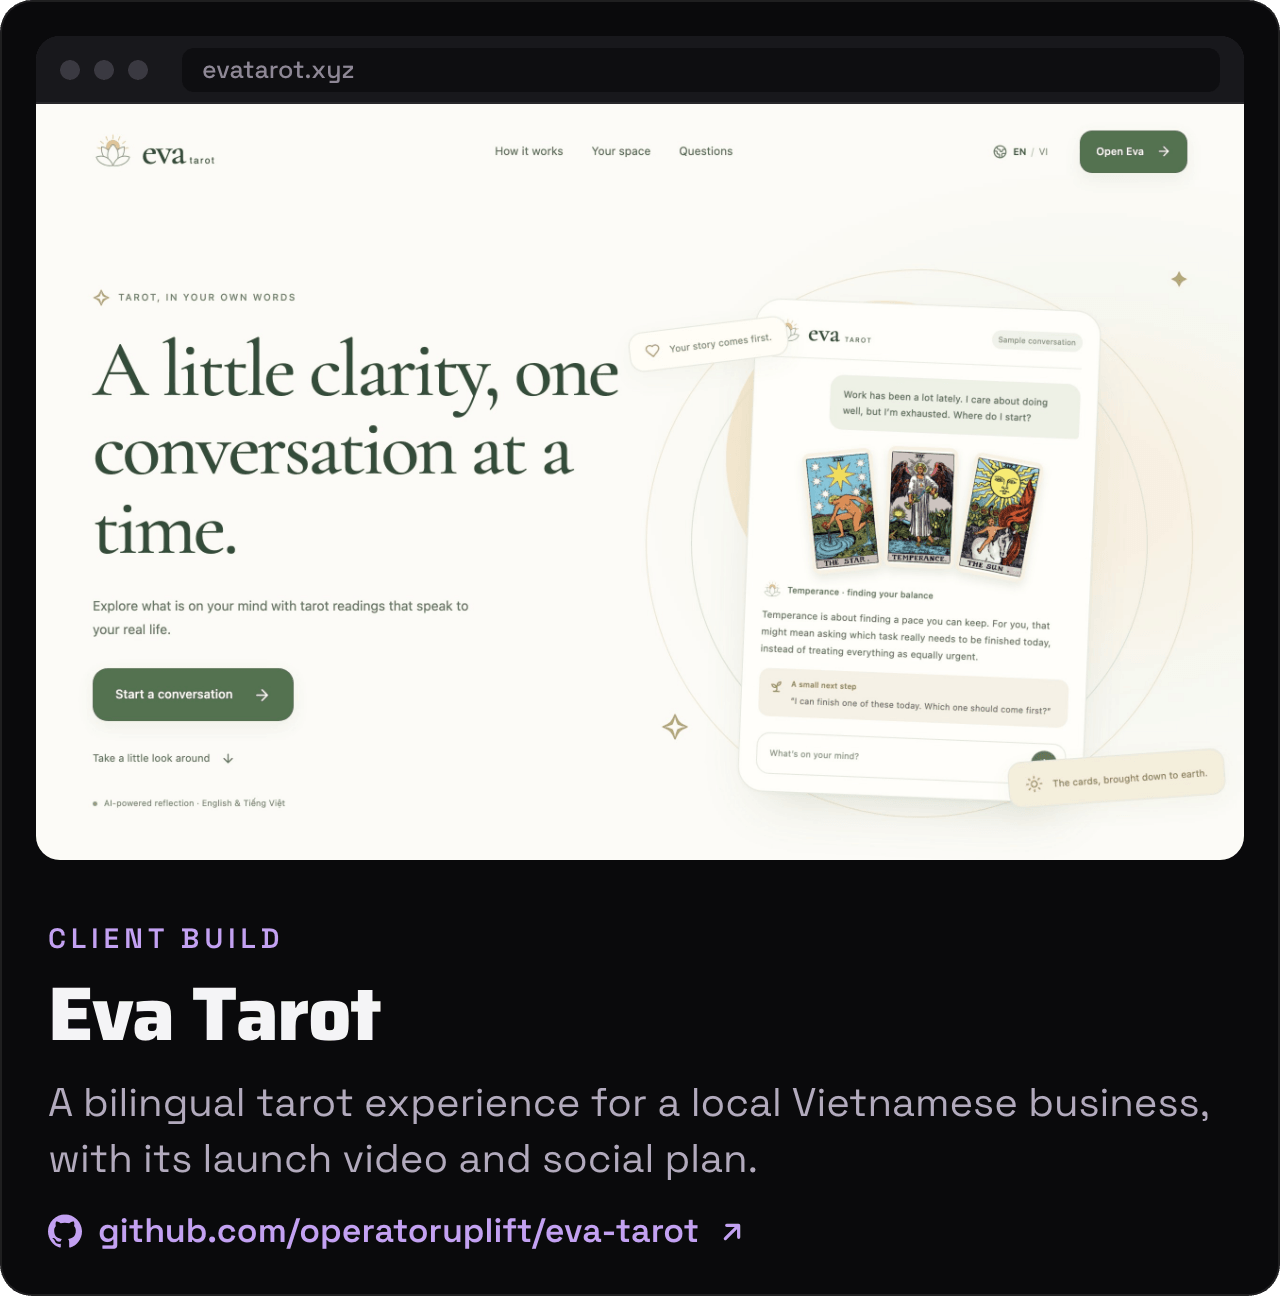
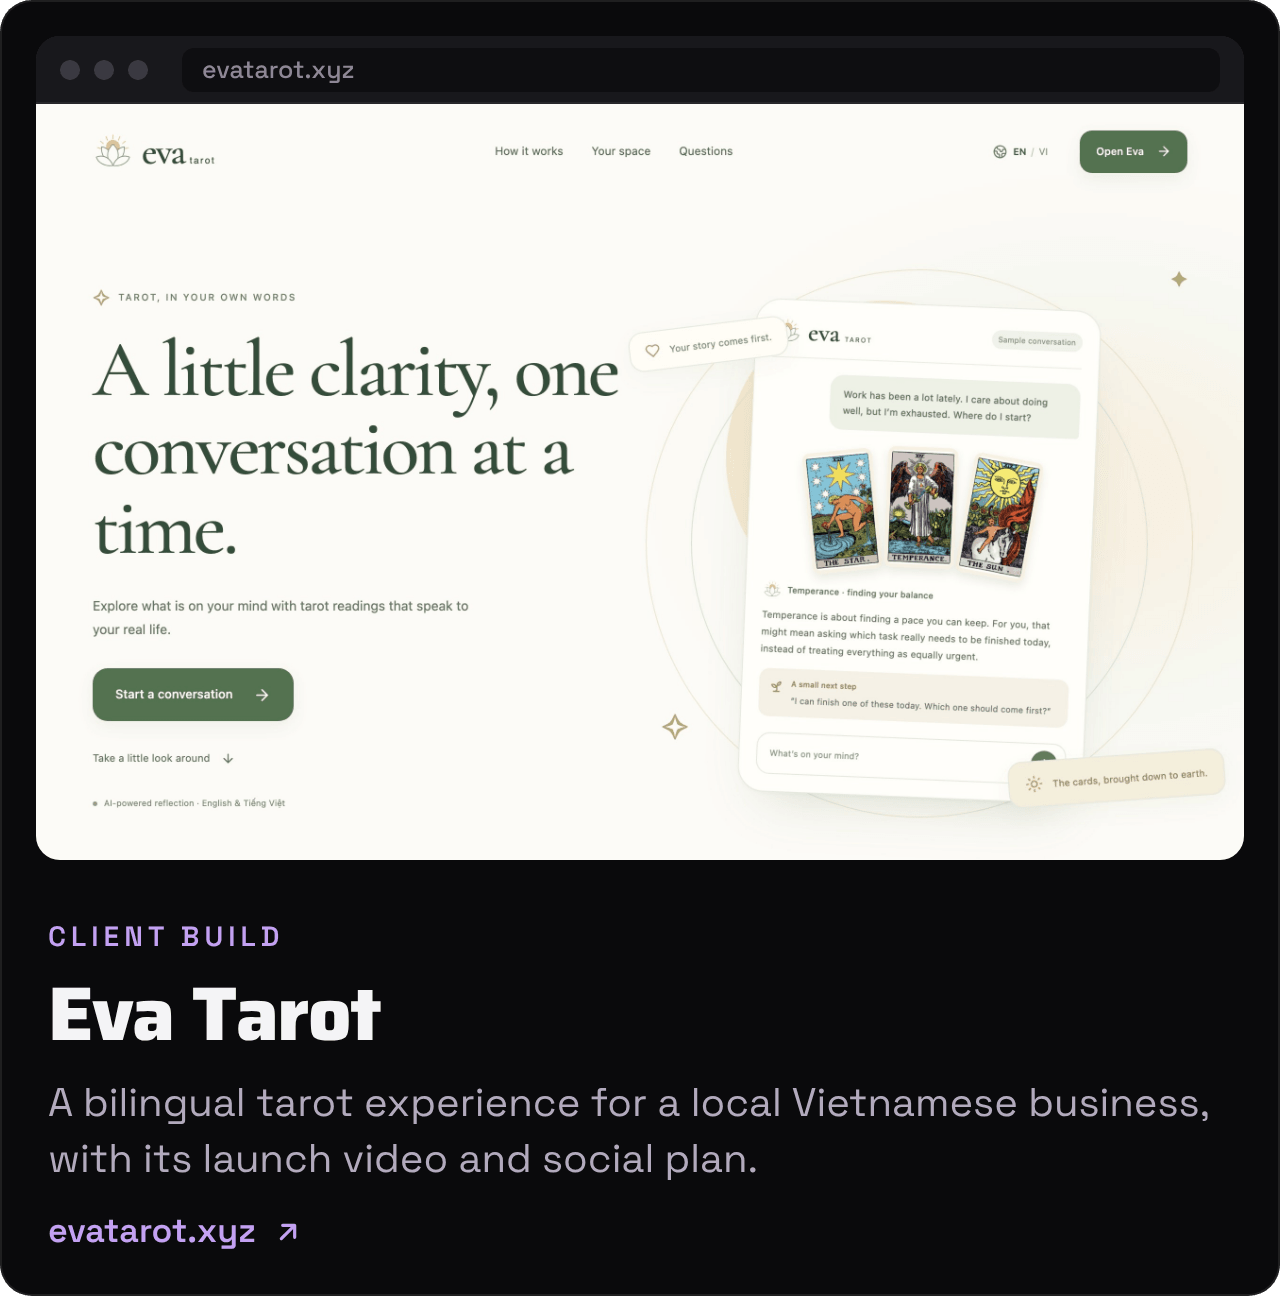
Link the Striker Terminal and Eva Tarot tiles to their live sites
- both repos are going private, so their tiles now open
  strikerterminal.vercel.app and evatarot.xyz instead of GitHub
- the two tiles are re-rendered with the site address in the footer;
  every other image is unchanged

Claude-Session: https://claude.ai/code/session_01TZhsuWjATuivuiFYJGpbY5

Changed region(s): [[0.0312, 0.9259, 0.5938, 0.9568], [0.0312, 0.7099, 0.1562, 0.7407], [0.1875, 0.7099, 0.2188, 0.7407]]

diff --git a/README.md b/README.md
@@ -41,12 +41,12 @@
 
 <p align="center">
   <a href="https://github.com/operatoruplift/road-to-bp2026-dlmm"><img src="https://raw.githubusercontent.com/operatoruplift/operatoruplift/main/img/12-tile-dlmm.png?v=98eadb15d3" alt="DLMM, zero to hero. Meteora · learning. A beginner-friendly Meteora DLMM guide with visual lessons, quizzes and a liquidity playground." width="49%"></a>
-  <a href="https://github.com/operatoruplift/eva-tarot"><img src="https://raw.githubusercontent.com/operatoruplift/operatoruplift/main/img/13-tile-eva-tarot.png?v=be9d61d857" alt="Eva Tarot. Client build. A bilingual tarot experience for a local Vietnamese business, with its launch video and social plan." width="49%"></a>
+  <a href="https://evatarot.xyz"><img src="https://raw.githubusercontent.com/operatoruplift/operatoruplift/main/img/13-tile-eva-tarot.png?v=649f8ce8e4" alt="Eva Tarot. Client build. A bilingual tarot experience for a local Vietnamese business, with its launch video and social plan." width="49%"></a>
 </p>
 
 <p align="center">
   <a href="https://omnivoiceai.vercel.app"><img src="https://raw.githubusercontent.com/operatoruplift/operatoruplift/main/img/14-tile-velocity-ai.png?v=23a4aa9f8a" alt="Velocity AI. 1st place · OmniDimension Voice AI. Voice-AI speed to lead: it calls, qualifies and routes inbound leads." width="49%"></a>
-  <a href="https://github.com/operatoruplift/striker-terminal"><img src="https://raw.githubusercontent.com/operatoruplift/operatoruplift/main/img/15-tile-striker-terminal.png?v=fc6d9444e1" alt="Striker Terminal. Hackathon build. A World Cup prediction terminal with programmable orders and collectible prediction receipts." width="49%"></a>
+  <a href="https://strikerterminal.vercel.app"><img src="https://raw.githubusercontent.com/operatoruplift/operatoruplift/main/img/15-tile-striker-terminal.png?v=8f40e09e6b" alt="Striker Terminal. Hackathon build. A World Cup prediction terminal with programmable orders and collectible prediction receipts." width="49%"></a>
 </p>
 
 <p align="center">
